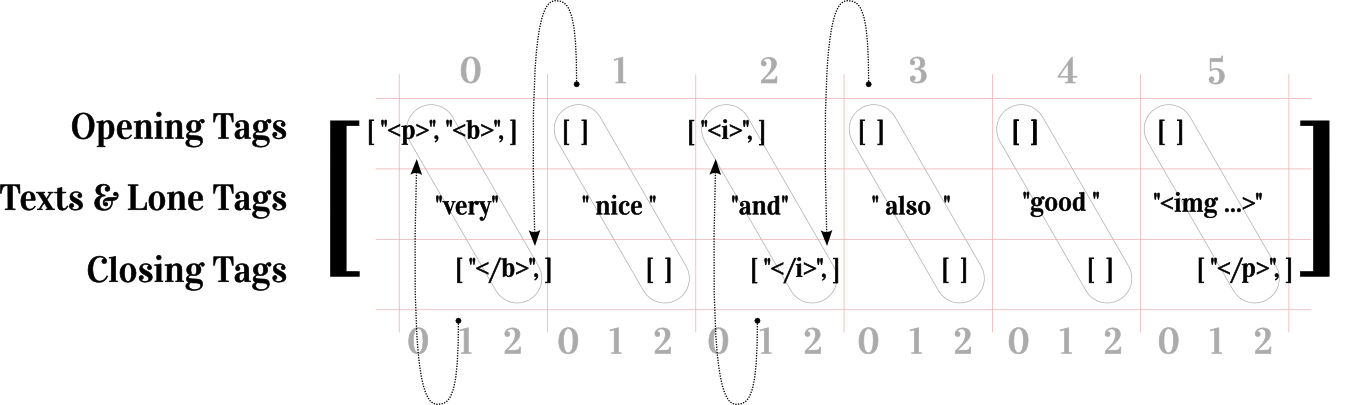
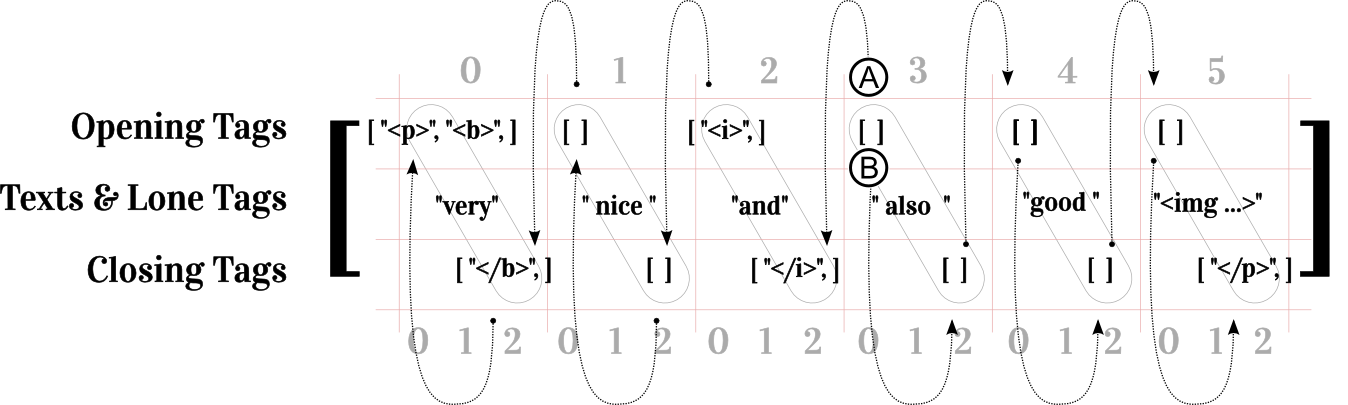
autocommit

diff --git a/lib/tests.js b/lib/tests.js
@@ -181,20 +181,24 @@
     match = "<p><img src=\"x.jpg\"></p>";
     return H.parse(html, handle(function(hotml) {
       var slice;
-      debug('©jLuh7', hotml);
       slice = H.slice(hotml, 1, 2);
       T.eq(H.as_html(slice), match);
       return done();
     }));
   };
 
-  this["..."] = function(T, done) {
-    var html;
-    html = "<p><b>very</b> nice <i>and</i> also good <img src=\"x.jpg\">";
+  this["H.slice honours closing tags"] = function(T, done) {
+    var html, match;
+    html = "<p><b>very</b> nice <i>and</i> also good <img src=\"x.jpg\"></p>";
+    match = "<p> also good <img src=\"x.jpg\"></p>";
     return H.parse(html, handle(function(hotml) {
-      debug('©jLuh7', hotml);
-      debug('©jLuh7', H.as_html(hotml));
-      debug('©jLuh7', H.rpr(hotml));
+      var slice;
+      slice = H.slice(hotml, 3, 6);
+      debug('©jLuh7', slice);
+      debug('©jLuh7', H.as_html(slice));
+      urge('©jLuh7', H.rpr(hotml));
+      debug('©jLuh7', H.rpr(slice));
+      T.eq(H.as_html(slice), match);
       return done();
     }));
   };

diff --git a/README.md b/README.md
@@ -228,13 +228,13 @@ this HTML:
 
 
 ```html
-<p><b>very</b> nice <i>and</i> also good <img src="x.jpg">
+<p><b>very</b> nice <i>and</i> also good <img src="x.jpg"></p>
 ```
 
 Feeding this source to `HOTMETAL.parse()`, we have three ways to print out the resulting structure:
 
 ```coffee
-html  = """<p><b>very</b> nice <i>and</i> also good <img src="x.jpg">"""
+html  = """<p><b>very</b> nice <i>and</i> also good <img src="x.jpg"></p>"""
 HOTMETAL.parse html, ( error, hotml ) ->
   throw error if error?
   console.log                   hotml
@@ -249,7 +249,12 @@ HOTMETAL.parse html, ( error, hotml ) ->
   [ [],               ' also ',            [],         ],
   [ [],               'good ',             [],         ],
   [ [],               '<img src="x.jpg">', [ '</p>' ] ] ]
+```
 
+`HOTMETAL.rpr()` (short for 'representation') gives a nice overview how the parse method organizes
+the input:
+
+```
 # as rendered by `HOTMETAL.rpr()`:
 0______ 1________________ 2___
 <p>,<b> very_____________ </b>
@@ -259,6 +264,14 @@ _______ also_____________ ____
 _______ good_____________ ____
 _______ <img src="x.jpg"> </p>
 ```
+
+It can be seen that producing HTML from this structure is as easy as concatenating all the texts in the
+lists, and getting a slice of valid HTML is almost as easy: We start by copying the triplets between
+the start and stop indexes from the original list; then, we then walk backwards and, in each triplet
+we encounter on the way, keep a count of the closing tags; whenever we meet with an unmatched openening
+tag, we add it to the openening tags of the first triplet in the result. Then, we walk forward through
+the result triplets, pushing all the openening tags to a stack from which we then pop the closing tags;
+the remaining tags on the stack are those that still have to be closed.
 
 ![](https://github.com/loveencounterflow/hotmetal/raw/master/art/hotmetal.png)
 
